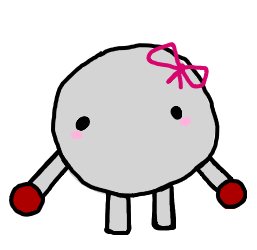
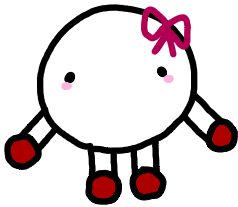
added animations

diff --git a/script.js b/script.js
@@ -1,5 +1,8 @@
 const molly = document.getElementById("molly")
 molly.style.display = 'none';
+const wavingMolly = ["molly-2.png", "molly-3.png"]
+const lonePairMolly = ["molly.png", "lonepair.png", "lonepair-2.png"]
+let i = 0
 
 const cylinder1 = document.querySelector("#cylinder-1")
 const cylinder2 = document.querySelector("#cylinder-2")
@@ -19,7 +22,7 @@ let levels = [{
     name: "water",
     bondType: "single",
     bondAngle: 104.5,
-    help: ["stuck? don't worry, i'm here to help!", "hi, i'm molly^300", "to work out bond angles, we need to know how many bp and lp are present", "bp being bonded pairs, lp being lone pairs", "as you can see, O is the central atom, surrounded by 2 H's", "we will use the number of electrons the central atom has", ".^200.^200.and the number of electrons the surrounding atoms need", "adding them together: 6 from the oxygen, 2 from the hydrogen x 2", "8 electrons in total, therefore 4 pairs", "4 pairs give the molecule a tet^200ra^150hedral orbital shape", "2 bonds and therefore bonded pairs can be seen", "so there must be 2 lone pairs to account for the 4 pairs in total", "each lone pair decreases the bond angle by 2.5°", "since the bond angle of a tetrahedral shape with no lone pairs is usually 109.5.^300.^300.", "try it now!"]
+    help: ["stuck? don't worry, i'm here to help!", "hi, i'm molly^300", ":D", "to work out bond angles, we need to know how many bp and lp are present", "bp being bonded pairs, lp being lone pairs", "as you can see, O is the central atom, surrounded by 2 H's", "we will use the number of electrons the central atom has", ".^200.^200.and the number of electrons the surrounding atoms need", "adding them together: 6 from the oxygen, 2 from the hydrogen x 2", "8 electrons in total, therefore 4 pairs", "4 pairs give the molecule a tet^200ra^150hedral orbital shape", "2 bonds and therefore bonded pairs can be seen", "so there must be 2 lone pairs to account for the 4 pairs in total", "each lone pair decreases the bond angle by 2.5°", "see?", "since the bond angle of a tetrahedral shape with no lone pairs is usually 109.5.^300.^300.", "try it now!"]
 }, {
     name: "carbon dioxide",
     bondType: "double",
@@ -30,20 +33,29 @@ let levels = [{
     colourExtra: "#851b11",
     help: ["here we have carbon as the central atom, and 2 surrounding oxygens", "carbon has 4 electrons, oxygen need 2 electrons", "so.^300.^300.the total number of electrons is 4 + (2 x 2)", "giving us 8 electrons, and therefore 4 pairs", "as you can see, the double bonds mean there are 4 bonds in total", "so no electrons are left over for lone pairs", "and the linear shape is therefore not distorted!", "so enter the bond angle for a linear molecule^300.^300.^300can you remember it?"]
 
+}, {
+    name: "sulfur dioxide",
+    bondType: "double",
+    bondAngle: 120,
+    radiusCentral: 0.2,
+    colourCentral: "yellow",
+    radiusExtra: 0.2,
+    colourExtra: "#851b11",
+    help: []
 }]
 const angles = [180, 180, 120, 109.5, 107, 104.5, 90]
     
 
 document.addEventListener("keydown", (event) => {
-    if (event.key === "w") {
-        if (clickNo < 7) {
-            document.querySelector("#bondAngle").setAttribute("value",`angle: ${angles[clickNo]}`)
+    if (event.key === "l") {
+        if (clickNo < 6) {
+            //document.querySelector("#bondAngle").setAttribute("value",`angle: ${angles[clickNo]}`)
             clickNo = clickNo + 1
             newBondAngle(clickNo);
         }
-    } else if (event.key === "s") {
+    } else if (event.key === "p") {
         if (clickNo > 0) {
-            document.querySelector("#bondAngle").setAttribute("value",`angle: ${angles[clickNo]}`)
+            //document.querySelector("#bondAngle").setAttribute("value",`angle: ${angles[clickNo]}`)
             clickNo = clickNo - 1;
             newBondAngle(clickNo);
         }
@@ -64,8 +76,24 @@ document.addEventListener("keydown", (event) => {
     } else if (event.key === "?") {
         const typed = new Typed('.element', {
             strings: levels[level].help,
-            typeSpeed: 50
-        })
+            typeSpeed: 50,
+            smartBackspace: true,
+            onStringTyped: (arrayPos, self) => {
+                if (self.strings[arrayPos] === ":D") {
+                    document.querySelector(".element").innerHTML = "";
+                    self.stop()
+                    wavingAnimation().then(() => {
+                        self.start()
+                    });
+                } else if (self.strings[arrayPos] === "see?") {
+                    document.querySelector(".element").innerHTML = "";
+                    self.stop()
+                    lonePairAnimation().then(() => {
+                        self.start()
+                    });
+                }
+            }
+        });
         molly.style.display = 'block';
     }
 })
@@ -75,6 +103,29 @@ function newBondAngle(clickNo) {
         moleculeRotation.setAttribute("rotation", `0 0 ${-15*clickNo}`)
     }
 }
+
+function sleep(ms) {
+    return new Promise(resolve => setTimeout(resolve, ms));
+  }
+
+async function wavingAnimation() {
+for (let image = 0; image < 7; image++) {
+        molly.src = wavingMolly[i]
+        i = (i + 1) % wavingMolly.length;
+        await sleep (500)
+    }
+    
+}
+
+
+async function lonePairAnimation() {
+    for (let image2 = 0; image2 < 4; image2++) {
+        molly.src = lonePairMolly[i]
+        i = (i + 1) % lonePairMolly.length;
+        await sleep(500)
+    }
+}
+
 
 function newLevel(difficulty) {
     if (level < 3) {

diff --git a/lab.html b/lab.html
@@ -9,8 +9,8 @@
 
 <body>
     <a-scene>
-        <a-text id="marking" value="press enter to submit bond angle" position="0 2 -3" color="black" width="2"></a-text>
-        <a-text id="atomName" value="name: water" position="-1 1.5 -3" color="black" width="2"></a-text>
+        <a-text id="marking" value="press enter to submit bond angle" position="-1.5 2.2 -3" color="black" width="2"></a-text>
+        <a-text id="atomName" value="name: water" position="-1 2 -3" color="black" width="2"></a-text>
         <!--<a-text id="bondAngle" value="angle: 180" position="1 1.5 -3" color="black" width="2"></a-text>-->
 
         <div id="text-box">
@@ -119,7 +119,7 @@
 
         
 
-        <a-camera position="0 1 0" wasd-controls-enabled="false">
+        <a-camera position="0 1 0" wasd-controls-enabled="true">
             <a-cursor></a-cursor>
         </a-camera>
     </a-scene>

diff --git a/style.css b/style.css
@@ -4,6 +4,32 @@
 
 }
 
+@keyframes waving {
+    0%{background-image: url("molly.png");}
+    20%{background-image: url("molly-2.png");}
+    40%{background-image: url("molly-3.png");}
+    60%{background-image: url("molly-2.png");}
+    80%{background-image: url("molly-3.png");}
+    100%{background-image: url("molly-2.png");}
+}
+
+.waving {
+    width: 100px;
+    animation: waving 4s ease;
+}
+
+@keyframes lone-pair {
+    0%{background-image: url("molly.png")}
+    50%{background-image: url("lonepair.png")}
+    100%{background-image: url("lonepair-2.png")}
+}
+
+.lone-pair {
+    width: 100px;
+    height: auto;
+    animation: lone-pair 3s ease;
+}
+
 #text-box {
     display: inline-block;
     align-items: center;
@@ -23,5 +49,5 @@
   }
 
 body {
-    font: "pixel-boy", sans-serif;
+    font-family: "pixel-boy", sans-serif;
 }
